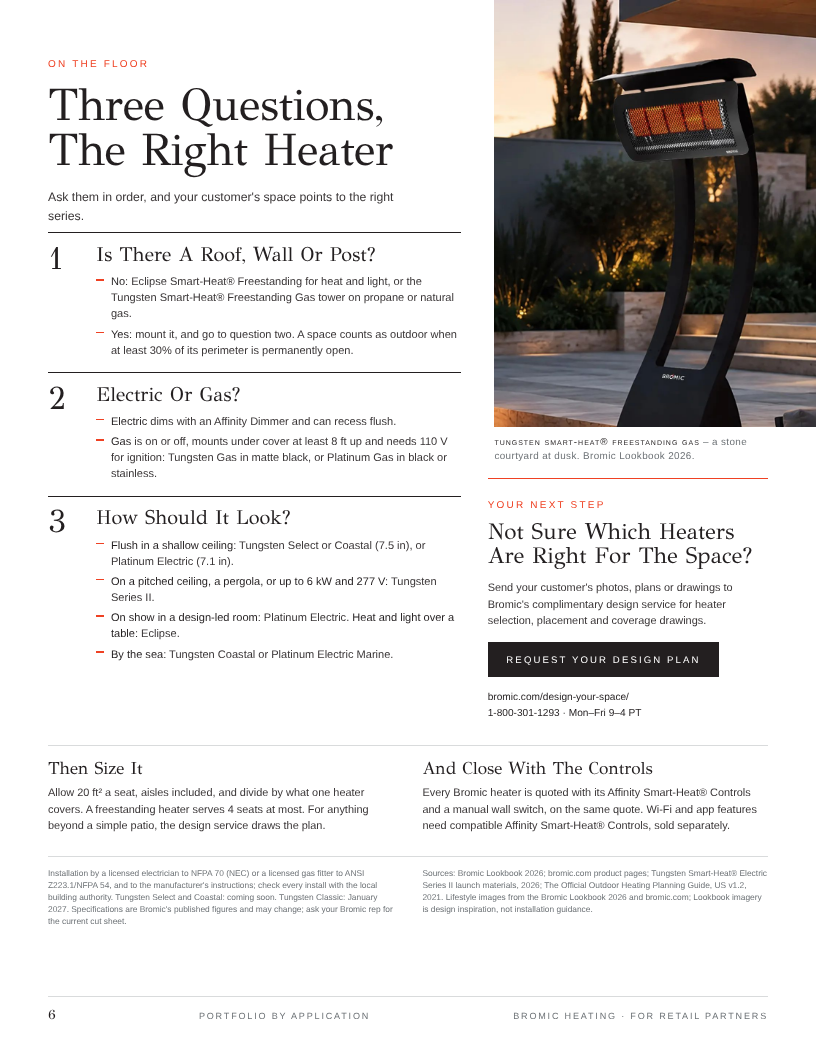
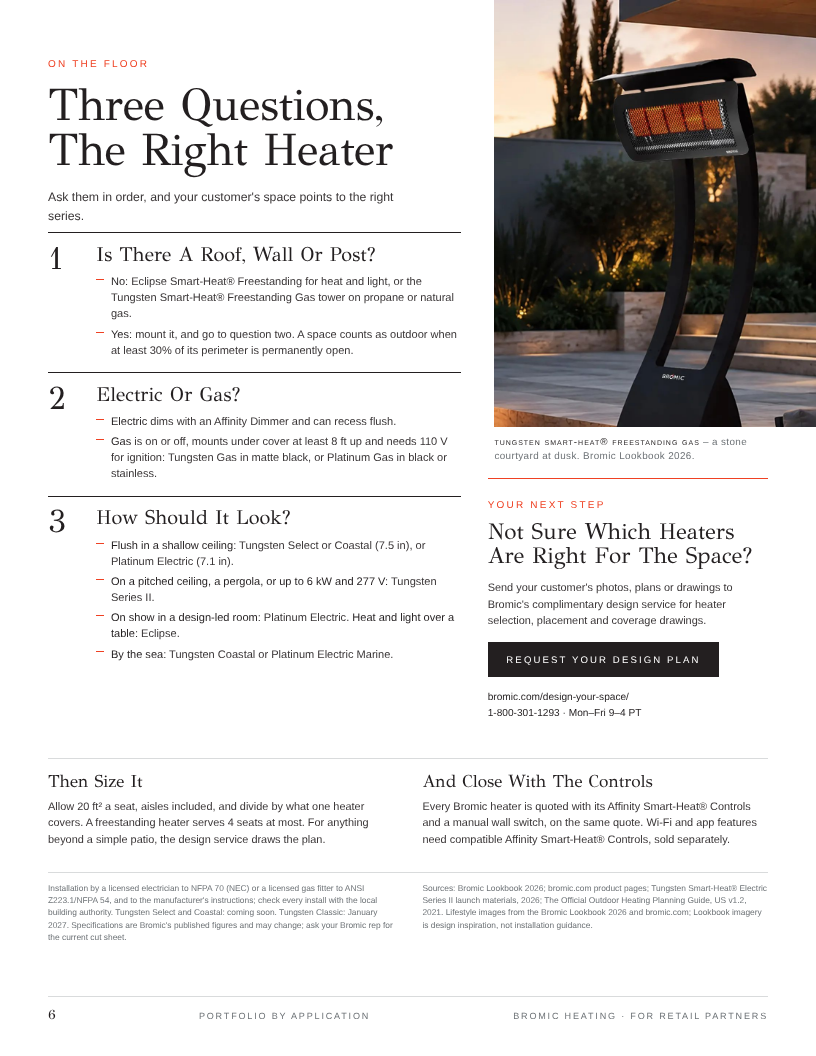
Retail assets: work in progress

Changed region(s): [[0.5208, 0.7188, 0.9498, 0.875], [0.0613, 0.7188, 0.4902, 0.9062]]

diff --git a/reports/retail/portfolio-applications/index.html b/reports/retail/portfolio-applications/index.html
@@ -136,9 +136,9 @@ p { font-size: 9.2pt; line-height: 1.58; color: #3a3637; hyphens: manual; }
 .p6 .q h3 { font-family: 'Didot', serif; font-weight: 400; font-size: 15pt; line-height: 1.1; margin-bottom: 4pt; }
 .p6 .q ul { list-style: none; }
 .p6 .q li { font-size: 8.3pt; line-height: 1.45; color: #3a3637; padding: 1.6pt 0 1.6pt 11pt; position: relative; }
-.p6 .q li::before { content: ''; position: absolute; left: 0; top: 6pt; width: 6pt; height: 1pt; background: var(--flame); }
+.p6 .q li::before { content: ''; position: absolute; left: 0; top: 6pt; width: 6pt; height: 0; border-top: 1px solid var(--flame); }
 .p6 .q li b { font-weight: 400; color: var(--ink); }
-.p6 .then { position: absolute; top: 7.76in; left: var(--m); right: var(--m); display: grid; grid-template-columns: 1fr 1fr; gap: 0.3in;
+.p6 .then { position: absolute; top: 7.9in; left: var(--m); right: var(--m); display: grid; grid-template-columns: 1fr 1fr; gap: 0.3in;
   border-top: 0.5pt solid var(--rule); padding-top: 9pt; }
 .p6 .then h4 { font-family: 'Didot', serif; font-weight: 400; font-size: 13pt; margin-bottom: 4pt; }
 .p6 .then p { font-size: 8.2pt; line-height: 1.5; }
@@ -148,7 +148,7 @@ p { font-size: 9.2pt; line-height: 1.58; color: #3a3637; hyphens: manual; }
 .p6 .cta .btn { display: inline-block; margin-top: 10pt; background: var(--ink); color: #fff; font-size: 7.2pt; letter-spacing: 0.22em;
   text-transform: uppercase; padding: 9pt 14pt; }
 .p6 .cta .contact { margin-top: 9pt; font-size: 7.6pt; line-height: 1.55; color: var(--ink); }
-.p6 .fine { position: absolute; left: var(--m); right: var(--m); top: 8.92in; display: grid; grid-template-columns: 1fr 1fr; gap: 0.3in;
+.p6 .fine { position: absolute; left: var(--m); right: var(--m); top: 9.08in; display: grid; grid-template-columns: 1fr 1fr; gap: 0.3in;
   border-top: 0.5pt solid var(--rule); padding-top: 7pt; }
 .p6 .fine p { font-size: 6.3pt; line-height: 1.45; color: var(--steel); }
 </style></head><body>
@@ -203,7 +203,7 @@ p { font-size: 9.2pt; line-height: 1.58; color: #3a3637; hyphens: manual; }
       <h3>Covered Patio Or Porch</h3>
       <span class="pick">Show first</span>
       <div class="series">Tungsten Select (Series II) <span class="tc">Coming soon</span><br>Tungsten Classic from January 2027</div>
-      <div class="why">About 14% narrower and a third lighter than Series I, in black, white or graphite, with the Diamond front or an oval or triangle front, sold separately.</div>
+      <div class="why">About 14% narrower and a third lighter than Series I, in black, white or graphite, with the Diamond front as standard; oval and triangle fronts are sold separately.</div>
       <dl><div><dt>Mounting</dt><dd>Wall or ceiling, on a wall bracket or the single post</dd></div><div><dt>With gas</dt><dd>Tungsten Gas, mounted: 160 or 215 ft², natural gas or propane</dd></div><div><dt>Controls</dt><dd>Affinity Smart-Heat® Dimmer, or On/Off where dimming is not wanted, and a manual wall switch</dd></div></dl>
       <div class="sell"><b>Sell it to</b>Homeowners finishing a covered patio or porch, and the builders who bring them in – at outdoor-living stores and patio dealers.</div>
     </div>

diff --git a/reports/retail/portfolio-applications/build.js b/reports/retail/portfolio-applications/build.js
@@ -179,9 +179,9 @@ p { font-size: 9.2pt; line-height: 1.58; color: #3a3637; hyphens: manual; }
 .p6 .q h3 { font-family: 'Didot', serif; font-weight: 400; font-size: 15pt; line-height: 1.1; margin-bottom: 4pt; }
 .p6 .q ul { list-style: none; }
 .p6 .q li { font-size: 8.3pt; line-height: 1.45; color: #3a3637; padding: 1.6pt 0 1.6pt 11pt; position: relative; }
-.p6 .q li::before { content: ''; position: absolute; left: 0; top: 6pt; width: 6pt; height: 1pt; background: var(--flame); }
+.p6 .q li::before { content: ''; position: absolute; left: 0; top: 6pt; width: 6pt; height: 0; border-top: 1px solid var(--flame); }
 .p6 .q li b { font-weight: 400; color: var(--ink); }
-.p6 .then { position: absolute; top: 7.76in; left: var(--m); right: var(--m); display: grid; grid-template-columns: 1fr 1fr; gap: 0.3in;
+.p6 .then { position: absolute; top: 7.9in; left: var(--m); right: var(--m); display: grid; grid-template-columns: 1fr 1fr; gap: 0.3in;
   border-top: 0.5pt solid var(--rule); padding-top: 9pt; }
 .p6 .then h4 { font-family: 'Didot', serif; font-weight: 400; font-size: 13pt; margin-bottom: 4pt; }
 .p6 .then p { font-size: 8.2pt; line-height: 1.5; }
@@ -191,7 +191,7 @@ p { font-size: 9.2pt; line-height: 1.58; color: #3a3637; hyphens: manual; }
 .p6 .cta .btn { display: inline-block; margin-top: 10pt; background: var(--ink); color: #fff; font-size: 7.2pt; letter-spacing: 0.22em;
   text-transform: uppercase; padding: 9pt 14pt; }
 .p6 .cta .contact { margin-top: 9pt; font-size: 7.6pt; line-height: 1.55; color: var(--ink); }
-.p6 .fine { position: absolute; left: var(--m); right: var(--m); top: 8.92in; display: grid; grid-template-columns: 1fr 1fr; gap: 0.3in;
+.p6 .fine { position: absolute; left: var(--m); right: var(--m); top: 9.08in; display: grid; grid-template-columns: 1fr 1fr; gap: 0.3in;
   border-top: 0.5pt solid var(--rule); padding-top: 7pt; }
 .p6 .fine p { font-size: 6.3pt; line-height: 1.45; color: var(--steel); }
 `;
@@ -267,7 +267,7 @@ const space = (s) => `
 const P3 = [
   { no: '01', img: 'p3a', pos: '50% 35%', tcap: 'Tungsten Smart-Heat® Electric, porch ceiling', title: 'Covered Patio Or Porch',
     series: 'Tungsten Select (Series II) <span class="tc">Coming soon</span><br>Tungsten Classic from January 2027',
-    why: 'About 14% narrower and a third lighter than Series I, in black, white or graphite, with the Diamond front or an oval or triangle front, sold separately.',
+    why: 'About 14% narrower and a third lighter than Series I, in black, white or graphite, with the Diamond front as standard; oval and triangle fronts are sold separately.',
     rows: [['Mounting', 'Wall or ceiling, on a wall bracket or the single post'], ['With gas', 'Tungsten Gas, mounted: 160 or 215 ft², natural gas or propane'], ['Controls', 'Affinity Smart-Heat® Dimmer, or On/Off where dimming is not wanted, and a manual wall switch']],
     sell: 'Homeowners finishing a covered patio or porch, and the builders who bring them in – at outdoor-living stores and patio dealers.' },
   { no: '02', img: 'p3b', pos: '50% 30%', tcap: 'Tungsten Smart-Heat® Electric, vaulted porch', title: 'Pergola Or Pitched Ceiling',
